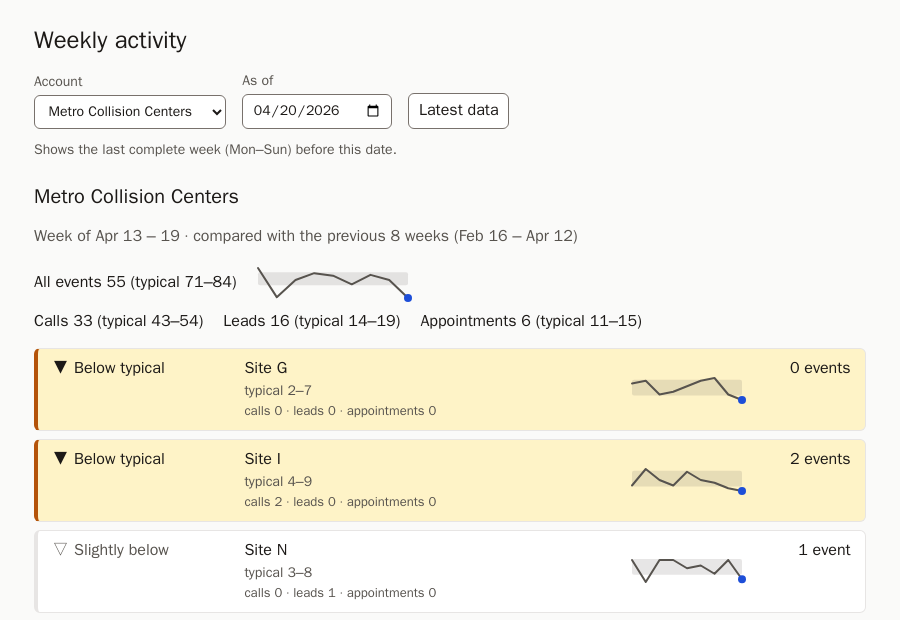
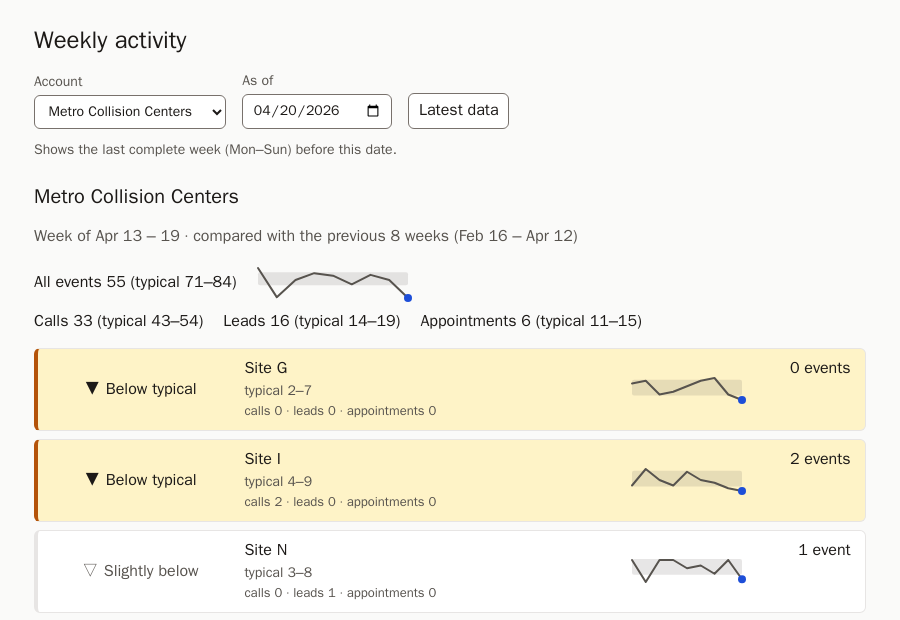
Centre the status in its column on every row
Horizontally and vertically, with or without a direction icon; drops
the no-icon special case. Screenshots regenerated.

Changed region(s): [[0.0622, 0.8581, 0.2178, 0.95], [0.0622, 0.7048, 0.2178, 0.7968], [0.0622, 0.5823, 0.2178, 0.6435]]

diff --git a/frontend/src/components/LocationList.tsx b/frontend/src/components/LocationList.tsx
@@ -60,7 +60,7 @@ export function LocationList({ summary }: { summary: WeeklySummary }) {
   return (
     <ul className="locations" aria-label="Locations, most unusual first">
       {summary.locations.map((location) => (
-        <li key={location.location} className={`location status-${location.status}${location.flagged ? " flagged" : ""}${STATUS_ICON[location.status] ? "" : " no-icon"}`}>
+        <li key={location.location} className={`location status-${location.status}${location.flagged ? " flagged" : ""}`}>
           <span className="status">
             {STATUS_ICON[location.status] && (
               <span className="icon" aria-hidden="true">

diff --git a/frontend/src/styles.css b/frontend/src/styles.css
@@ -140,14 +140,13 @@ button:disabled {
   border-left-color: var(--flag-border);
 }
 
+/* status centred in its column, horizontally and vertically, on every row */
 .status {
   grid-area: status;
-  font-weight: 600;
-}
-
-/* rows without a direction icon: status centred against the whole row */
-.location.no-icon .status {
   align-self: center;
+  justify-self: center;
+  text-align: center;
+  font-weight: 600;
 }
 
 .location:not(.flagged) .status {
